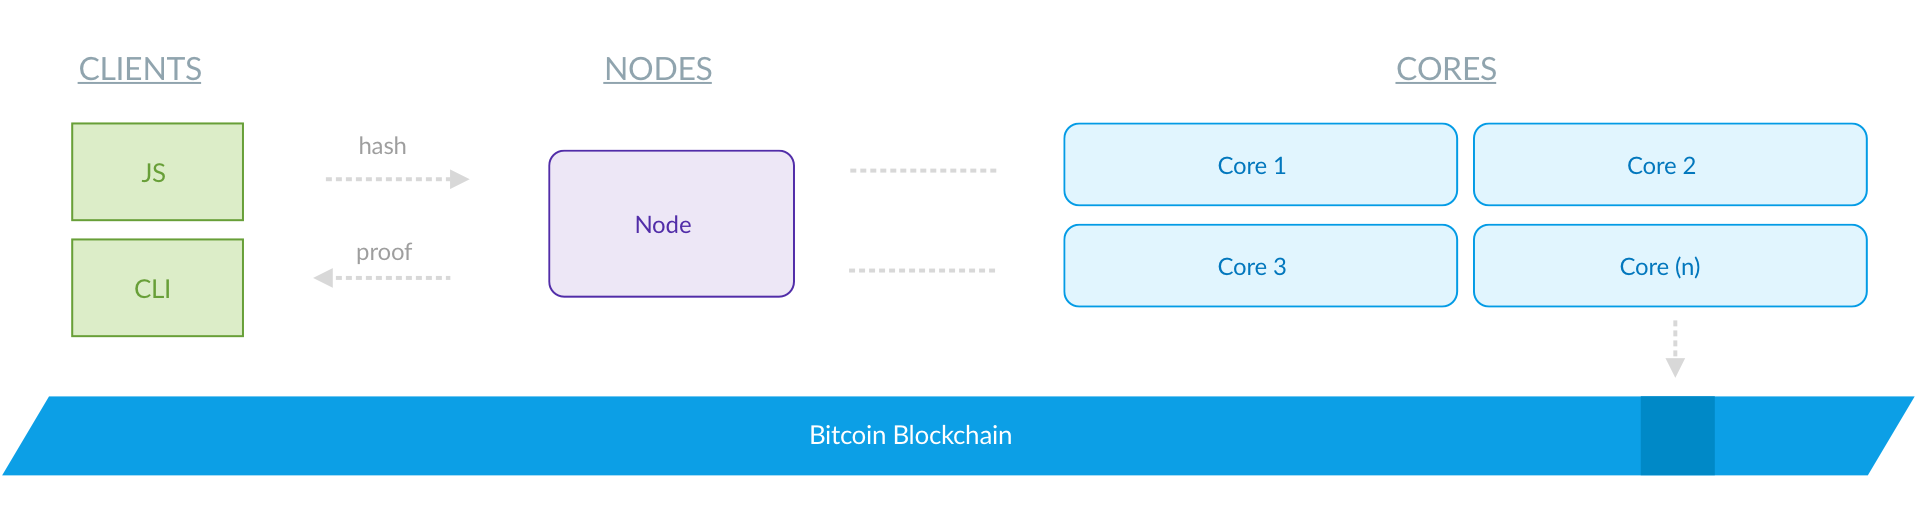
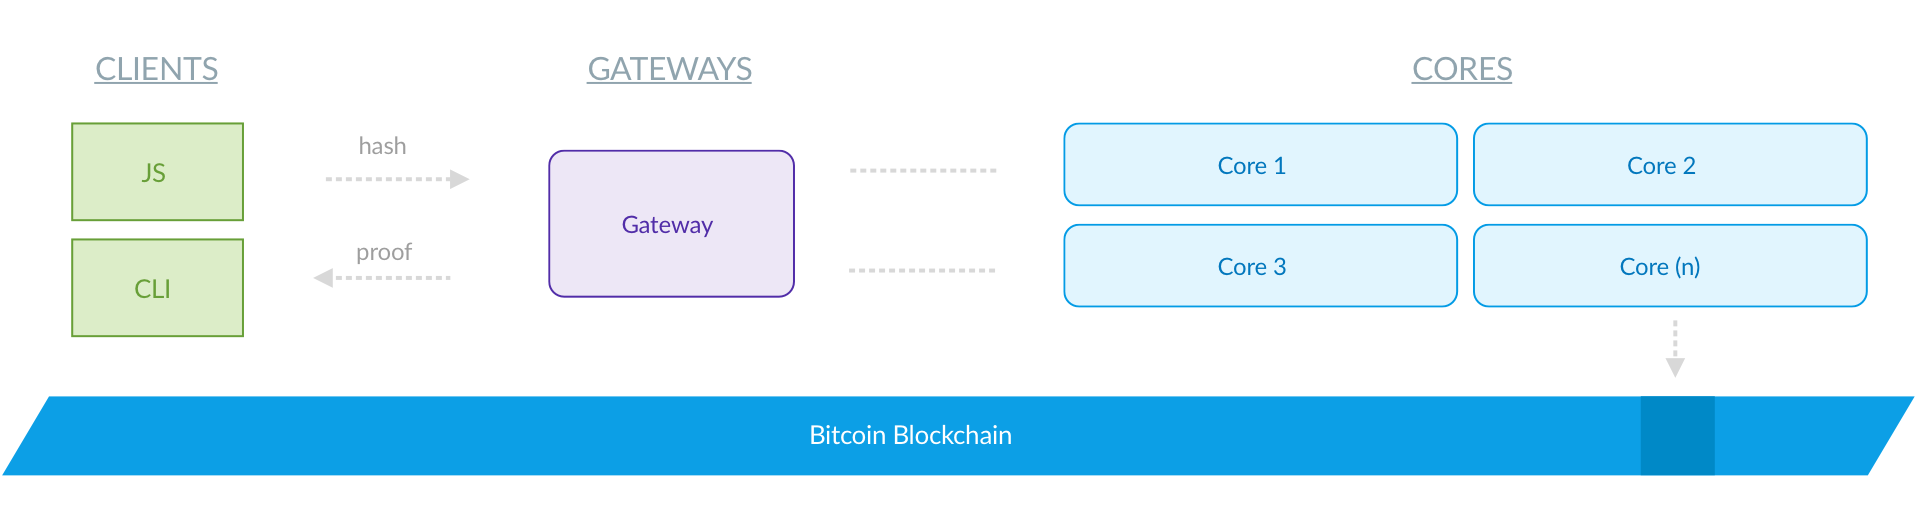
Updated content and diagram

diff --git a/README.md b/README.md
@@ -5,7 +5,7 @@ This repo provides an overview of Chainpoint and links to additional resources.
 
 [Chainpoint](https://github.com/chainpoint) is a protocol for anchoring data to Bitcoin to generate a timestamp proof. 
 
-The Chainpoint Network is a globally distributed network of nodes. Clients submit hashes to Nodes, which are aggregated into a [Merkle tree](https://en.wikipedia.org/wiki/Merkle_tree). The root of this tree is published in a Bitcoin transaction. The final Chainpoint Proof contains a set of operations that cryptographically link data to the Bitcoin blockchain.
+The **Chainpoint Network** is a globally distributed network of nodes. Clients submit hashes to Gateways, which aggregate these hashes into a [Merkle tree](https://en.wikipedia.org/wiki/Merkle_tree). Cores periodically publish the root of this tree in a Bitcoin transaction. The final **Chainpoint Proof** contains a series of operations that cryptographically link data to the Bitcoin blockchain.
 
 ## Chainpoint Network
 ![Draft Chainpoint Architecture Diagram](https://github.com/chainpoint/chainpoint-start/blob/master/imgs/Chainpoint-Network-Overview-Diagram.png)
@@ -14,37 +14,37 @@ The Chainpoint Network is a globally distributed network of nodes. Clients submi
 The Chainpoint Network is composed of a hierarchy of aggregators that coordinate to create Chainpoint Proofs. Here’s an overview of the process:
 
 
-1. Clients submit hashes to Nodes. 
-2. Nodes aggregate hashes in a Merkle tree, and send a Merkle root to one or more Cores. 
+1. Clients submit hashes to Gateways. 
+2. Gateways aggregate hashes in a Merkle tree, and send a Merkle root to one or more Cores. 
 3. Cores perform an additional round of aggregation, and write Merkle roots in transactions on a [Tendermint](https://github.com/tendermint/tendermint)-based blockchain called the Calendar. 
 4. Every hour, a single Core is elected to anchor the state of the Calendar to Bitcoin, monitor the blockchain for [six confirmations](https://en.bitcoin.it/wiki/Confirmation), and write the results back to the Calendar. 
-5. Nodes and Clients use the new data from the Calendar to construct final Chainpoint Proofs. 
+5. Gateways and Clients use the new data from the Calendar to construct final Chainpoint Proofs. 
 
 Due to the characteristics of Bitcoin, this asynchronous process takes approximately 90 minutes.
 
 
 # Clients
-## [chainpoint-client-js](https://github.com/chainpoint/chainpoint-client-js)
+## [chainpoint-js](https://github.com/chainpoint/chainpoint-client-js)
 
-A javascript client to submit hashes to Nodes, retrieve final Chainpoint Proofs, and verify proofs.
+A javascript client to submit hashes to Gateways, retrieve final Chainpoint Proofs, and verify proofs.
 
-## [chainpoint CLI](https://github.com/chainpoint/chainpoint-cli)
+## [chainpoint-cli](https://github.com/chainpoint/chainpoint-cli)
 
 A Command Line Interface (CLI) for creating and verifying Chainpoint proofs.
 
 
-# Nodes
-## [chainpoint-node](http://github.com/chainpoint/chainpoint-node)
+# Gateways
+## [chainpoint-gateway](http://github.com/chainpoint/chainpoint-Gateway)
 
-Nodes receive hashes from Clients, aggregate hashes in a [merkle tree](https://en.wikipedia.org/wiki/Merkle_tree), and periodically send a merkle root to one or more Cores. Each Node is a Lightning Node running [LND](https://github.com/lightningnetwork/lnd_). Nodes use Lighting to pay Cores an Anchor Fee for submitting a merkle root. 
+Gateways receive hashes from Clients, aggregate hashes in a [merkle tree](https://en.wikipedia.org/wiki/Merkle_tree), and periodically send a merkle root to one or more Cores. Each Gateway is a Lightning Node running [LND](https://github.com/lightningnetwork/lnd_). Gateways use Lighting to pay Cores an Anchor Fee for submitting a merkle root. 
 
 
 # Core
 ## [chainpoint-core](http://github.com/chainpoint/chainpoint-core)
 
-Each Core is a member of a distributed network that uses [Tendermint](https://github.com/tendermint/tendermint) to reach consensus. Cores aggregate hashes received from Nodes, maintain the Chainpoint Calendar, and periodically anchor data to the Bitcoin blockchain. Each Core is a Lightning Node running [LND](https://github.com/lightningnetwork/lnd). Cores receive Anchor Fee payments from Nodes via Lightning. The default Anchor Fee is 2 sats. Core Operators can set their Anchor Fee to adapt to changing market conditions.
+Each Core is a member of a distributed network that uses [Tendermint](https://github.com/tendermint/tendermint) to reach consensus. Cores aggregate hashes received from Gateways, maintain the Chainpoint Calendar, and periodically anchor data to the Bitcoin blockchain. Each Core is a Lightning Node running [LND](https://github.com/lightningnetwork/lnd). Cores receive Anchor Fee payments from Gateways via Lightning. The default Anchor Fee is 2 sats. Core Operators can set their Anchor Fee to adapt to changing market conditions.
 
-To join the network, Cores must open Lightning channels with 2/3rds of the existing Cores. Each channel must have a minimum capacity of 1,000,000 satoshis. This provides a measure of Sybil resistance and helps ensure Cores have the liquidity to receive Lightning payments from Nodes. As more Cores join the network, each Core anchors less frequently. This reduces the burden of paying Bitcoin transaction fees.
+To join the network, Cores must open Lightning channels with 2/3rds of the existing Cores. Each channel must have a minimum capacity of 1,000,000 satoshis. This provides a measure of Sybil resistance and helps ensure Cores have the liquidity to receive Lightning payments from Gateways. As more Cores join the network, each Core anchors less frequently. This reduces the burden of paying Bitcoin transaction fees.
 
 # Components
 
@@ -57,7 +57,7 @@ The components of the Chainpoint Network and their dependencies are below.
 | -- [btc-bridge](https://github.com/Tierion/btc-bridge)  
 |&nbsp; &nbsp; | -- [lnrpc-node-client](https://github.com/Tierion/lnrpc-node-client)  
 
-[Chainpoint Node](https://github.com/chainpoint/chainpoint-node-src)  
+[Chainpoint Gateway](https://github.com/chainpoint/chainpoint-gateway)  
 | -- [Lightning Network Daemon](https://github.com/Tierion/lnd)  
 | -- [lnrpc-node-client](https://github.com/Tierion/lnrpc-node-client)  
 | -- [merkle-tools](https://github.com/Tierion/merkle-tools)  
@@ -84,4 +84,4 @@ For the legacy network using the Tierion Network Token and Chainpoint-Services, 
 - [Chainpoint JSON Proof Schema](https://chainpoint.org/contexts/chainpoint-v4.jsonld)
 - [Boltbox - Lightning Infrastructure](https://github.com/Tierion/boltbox)
 
-Copyright 2020 Tierion, Inc.
+ ©2020 Tierion
